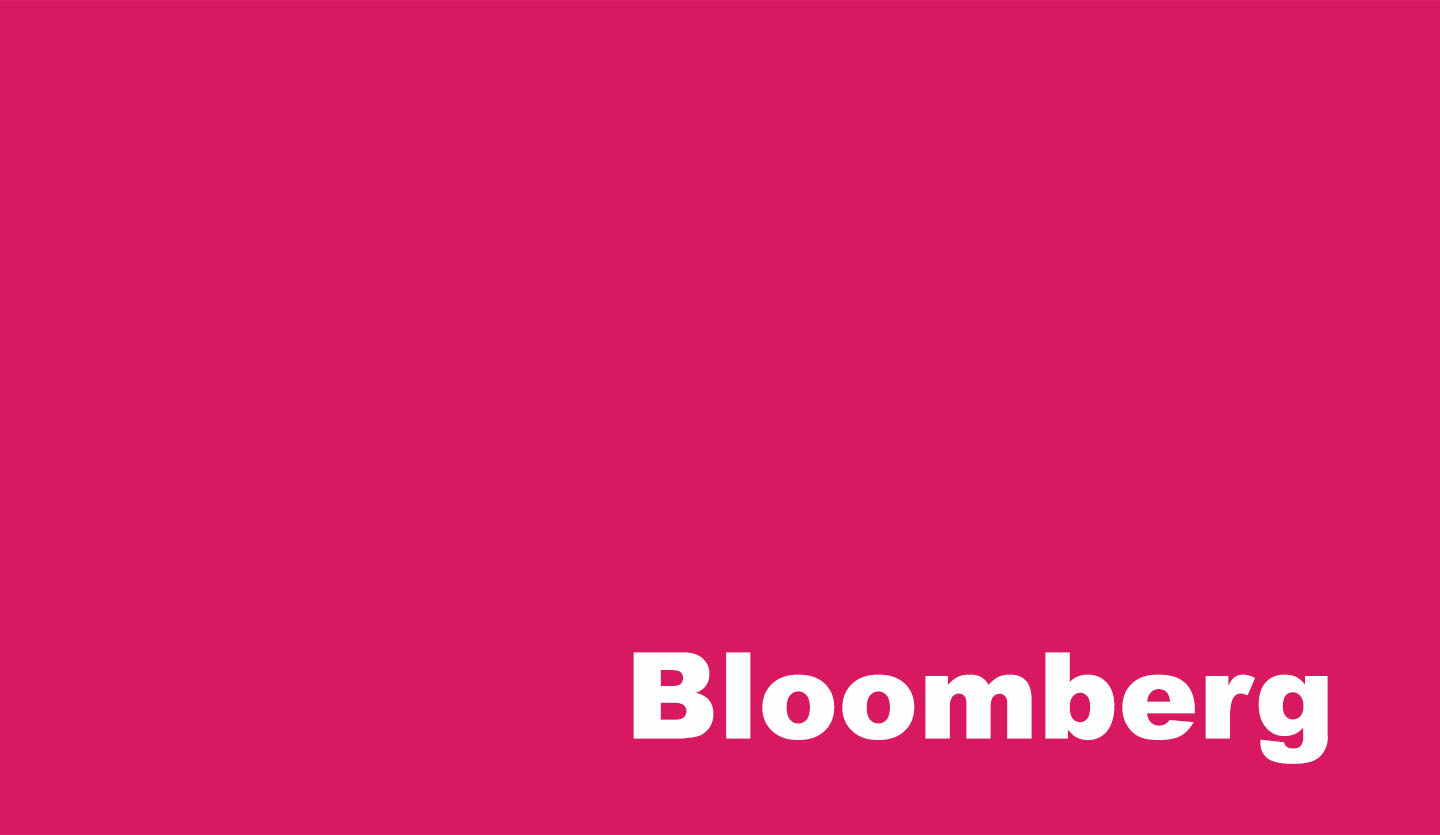
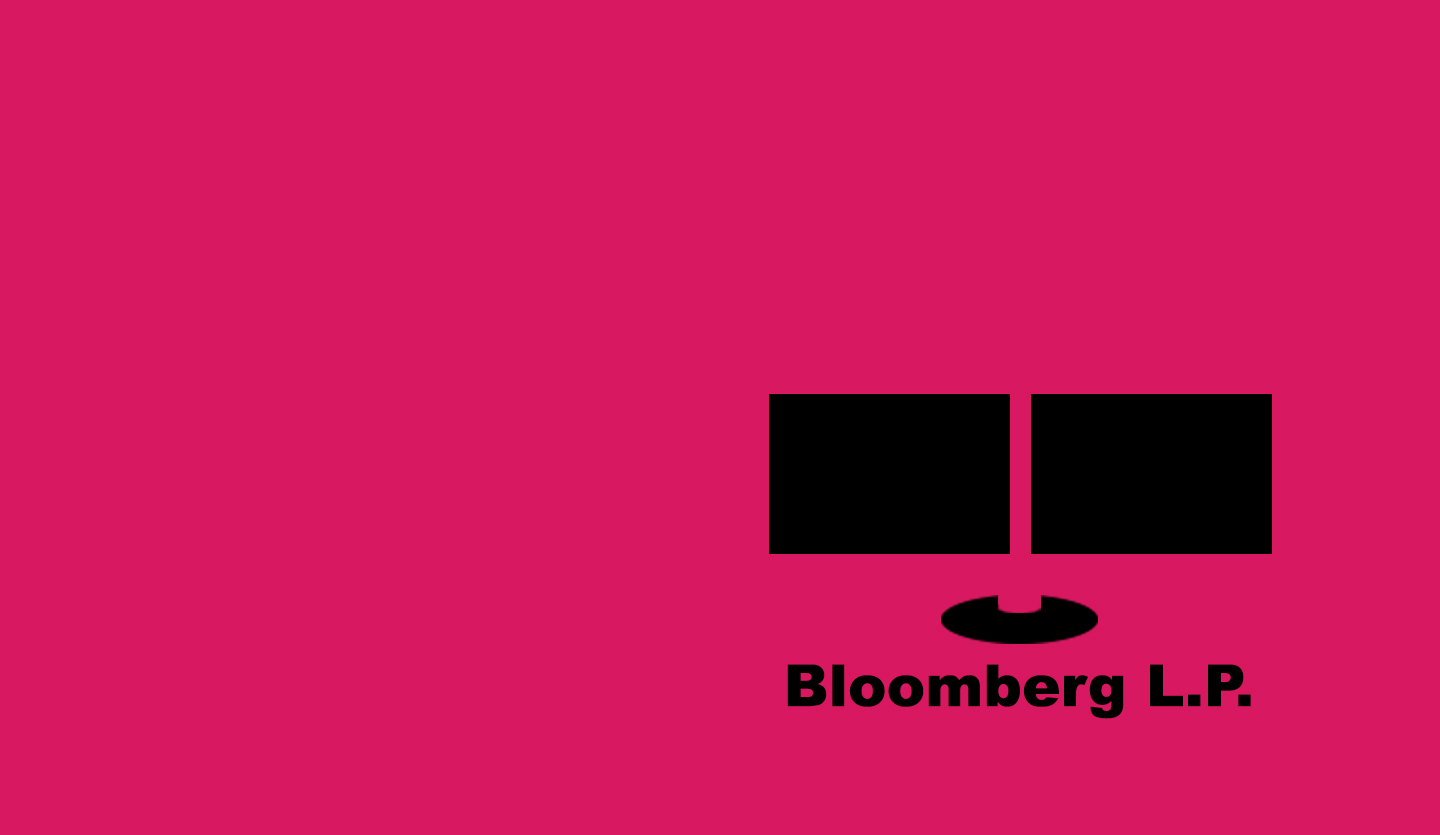
adding hero images to all project pages

Changed region(s): [[0.5312, 0.4671, 0.9062, 0.685], [0.4375, 0.7162, 0.9375, 0.9341]]

diff --git a/index.html b/index.html
@@ -55,19 +55,19 @@
                         <div class="6u">
                             <section>
                                 <a href="bloomberg.html" class="image feature nobackground proj-icon"><img class="biggerIcon" src="img/work/bloomberg2.jpg" alt="" /></a>
-                                <header>
+                                <!--<header>
                                     <p>Interaction design for Bloomberg LP.</p>
-                                </header>
+                                </header>-->
                             </section>
                         </div>
 
                         <div class="6u">
                             <section>
                                 <a href="sbaoa.html" class="image feature nobackground proj-icon"><img class="biggerIcon" src="img/work/sbaoa2.jpg" alt="" /></a>
-                                <header>
+                                <!--<header>
                                     <p>A website redesign for a refugee aid non-profit.</p>
                                 </header>
-                            </section>
+                            </section>-->
                         </div>
                         
                     </div>                    
@@ -79,18 +79,18 @@
                         <div class="4u">
                             <section>
                                 <a href="arl.html" class="image feature nobackground proj-icon"><img class="biggerIcon" src="img/work/arl.jpg" alt="" /></a>
-                                <header>
+                                <!--<header>
                                     <p>A website to request feral cat trappers and register feral cats.</p>
-                                </header>
+                                </header>-->
                             </section>
                         </div>
 
                         <div class="4u">
                             <section>
                                 <a href="eaton.html" class="image feature nobackground proj-icon"><img class="biggerIcon" src="img/work/eaton.jpg" alt="" /></a>
-                                <header>
+                                <!--<header>
                                     <p>A vision for the future of human-switchgear interaction.</p>
-                                </header>
+                                </header>-->
                             </section>
                         </div>
                                            
@@ -100,64 +100,13 @@
                         <div class="4u">
                             <section>
                                 <a href="kneejerk.html" class="image feature nobackground proj-icon"><img class="keepsmall" src="img/work/kneejerk.jpg" alt="" /></a>
-                                <header>
+                                <!--<header>
                                     <p>A reaction sharing mobile app.</p>
-                                </header>
-                            </section>
-                        </div>
-<!--
-                        <div class="4u">
-                            <section>
-                                <a href="waiterplease.html" class="image feature nobackground proj-icon"><img class="keepsmall" src="img/work/waiterPlease.jpg" alt="" /></a>
-                                <header>
-                                    <p>A system for locating wait staff.</p>
-                                </header>
-                            </section>
-                        </div>
-                        
-                        <div class="4u">
-                            <section>
-                                <a href="khri.html" class="image feature nobackground proj-icon"><img class="keepsmall" src="img/work/kresge.jpg" alt="" /></a>
-                                <header>
-                                    <p>A website redesign for the Kresge Hearing Research Institute.</p>
-                                </header>
-                            </section>
-                        </div>
--->
-                        
-                        
-                    </div>
-                    <div class="row">
-                        <!--
-                        <div class="4u">
-                            <section>
-                                <a href="nalabook.html" class="image feature nobackground proj-icon"><img class="keepsmall" src="img/work/nalaBook.jpg" alt="" /></a>
-                                <header>
-                                    <p>A book for Project nala.</p>
-                                </header>
-                            </section>
-                        </div>
-                       
-                        <div class="4u">
-                            <section>
-                                <a href="youngtraveler.html" class="image feature nobackground proj-icon"><img class="keepsmall" src="img/work/youngTraveler.jpg" alt="" /></a>
-                                <header>
-                                    <p>An e-magazine for young travelers.</p>
-                                </header>
+                                </header>-->
                             </section>
                         </div>
 
-                        
-                        <div class="4u">
-                            <section>
-                                <a href="elephant.html" class="image feature nobackground proj-icon"><img class="keepsmall" src="img/work/elephant.jpg" alt="" /></a>
-                                <header>
-                                    <p>An awesome elephant trying to uproot a tree.</p>
-                                </header>
-                            </section>
-                        </div>
-                    </div>
--->					</section>
+    				</section>
 
 
 					<section id="about" class="container">

diff --git a/arl.html b/arl.html
@@ -37,13 +37,13 @@
   </nav>
 </header>
 
+
+	<div class="hero">
+        <img src="img/work/nala-hero.jpg" alt="project nala hero image" />
+    </div>
+
 <!-- Main -->
 <article id="main">
-  <section class="wrapper style1 container">
-    <header class="container center">
-      <h2>Project Nala for the Animal Rescue League</h2>
-    </header>
-  </section>
   
   <!-- Proj Meta -->
   <section class="wrapper style1 container">
@@ -114,14 +114,18 @@
       <div class="9u"> 
 
           <section>
-            <h3>Final Concept</h3>
+            <h3>About Project Nala</h3>
             <p>Project nala is a website I designed and prototyped with 2 teammates for the Animal Rescue 
-              League of Western Pennsylvania. It allows community members to 
+              League of Western Pennsylvania. The Animal Rescue League came to us looking for a tool to educate the community 
+              about feral cats and also control the feral cat population. Project nala allows community members to 
               request expert trappers in order to Trap-Neuter-Return feral cats 
               in their neighborhoods. Trap-Neuter Return is a humane way of 
               controlling the feral cat population.
             </p>
-            <p>Check out the <a href="http://www.post-gazette.com/life/pet-stories/2014/05/17/Helping-feral-cats-and-those-who-care-for-them/stories/201405170038" target="_blank">article in the Pittsburgh Post-Gazette</a> written about our project and the <a href="http://www.hcii.cmu.edu/news/in-the-media/cmu-hcii-team-helps-feral-cats" target="_blank">coverage on CMU's HCII website</a>!</p>
+            <ul class="buttons">
+					<li class="button-li"><a href="http://projectnala.org" target="_blank" class="button special">Live website!</a></li>
+            </ul>
+            <p>Check out the <a href="http://triblive.com/neighborhoods/alleghenyneighborhoods/alleghenyneighborhoodsmore/7767408-74/cats-animal-cat#axzz3bRjFx9AF" target="_blank">article in TribLive</a> written about our project, <a href="http://www.post-gazette.com/life/pet-stories/2014/05/17/Helping-feral-cats-and-those-who-care-for-them/stories/201405170038" target="_blank">another article in the Pittsburgh Post-Gazette</a> and the <a href="http://www.hcii.cmu.edu/news/in-the-media/cmu-hcii-team-helps-feral-cats" target="_blank">coverage on CMU's HCII website</a>!</p>
             <p><div class="image feature nobackground captioned"><img src="work/arl/project_nala.jpg" alt="" /></div></p>
           </section>
 
@@ -155,15 +159,6 @@
             <br/>
           </section>
 
-  
-  <!-- About -->
-
-          <section>
-            <h3>Client</h3>
-            <p>The Animal Rescue League wanted a tool to educate the community about feral cats and also control the feral cat population.
-            </p> 
-            <p><div class="image feature nobackground captioned"><img src="work/arl/rescue_league.jpg" alt="" /></div></p>
-          </section>
 
 <br/>
   

diff --git a/eaton.html b/eaton.html
@@ -38,16 +38,12 @@
         </nav>
     </header>	
 		
+	<div class="hero">
+        <img src="img/work/eaton-hero.jpg" alt="eaton hero image" />
+    </div>
+
 		<!-- Main -->
     <article id="main">
-
-        <!-- TITLE -->
-        <section class="wrapper style1 container">
-            <header class="container center">
-                <h2>Eaton Capstone Project</h2>
-            </header>
-        </section>
-				
 				
 		<!-- Proj Meta -->
         <section class="wrapper style1 container">
@@ -129,15 +125,12 @@
                             <section>
                                 <h3>Process</h3>
                                 <h3>Research</h3>
-                                <p>We interviewed 33 domain experts.</p>
-                                <p><div class="image feature nobackground captioned"><img src="work/eaton/interview.JPG" alt="" /></div></p>
-                            </section>
-
-    
-                            <!-- tour -->
-                            <section>
-                                <p>And toured 4 university and hospital basements to see the switchgears and ask questions as we toured.</p>
-                                <p><div class="image feature nobackground captioned"><img src="work/eaton/tour.JPG" alt="" /></div></p>
+                                <p>We interviewed 33 domain experts. And toured 4 university and hospital basements to see the switchgears and ask questions as we toured.</p>
+                                <div class="row">
+                                    <div class="6u"><div class="image feature nobackground captioned"><img src="work/eaton/interview.JPG" alt="" /></div></div>
+                                    <div class="6u"><div class="image feature nobackground captioned"><img src="work/eaton/tour.JPG" alt="" /></div></div>
+                                </div>
+                                <br/>
                             </section>
             
             

diff --git a/kneejerk.html b/kneejerk.html
@@ -37,17 +37,13 @@
 					</ul>
 				</nav>
 			</header>	
+			
+			<div class="hero">
+                <img src="img/work/kneejerk-hero.jpg" alt="kneejerk hero image" />
+            </div>
 		
 		    <!-- Main -->
-			<article id="main">
-
-                <!--TITLE-->
-                <section class="wrapper style1 container">
-				    <header class="container center">
-				    	<h2>KneeJerk</h2>
-				    </header>
-				</section>
-				
+			<article id="main">				
 
 				    <!-- Proj Meta -->
 					<section class="wrapper style1 container">

diff --git a/sbaoa.html b/sbaoa.html
@@ -37,13 +37,12 @@
   </nav>
 </header>
 
+<div class="hero">
+    <img src="img/work/sbaoa-hero.jpg" alt="somali bantu association hero image" />
+</div>
+
 <!-- Main -->
 <article id="main">
-  <section class="wrapper style1 container">
-    <header class="container center">
-      <h2>Somali Bantu Association Website Redesign</h2>
-    </header>
-  </section>
   
   <!-- IX @ BBG -->
   <section class="wrapper style1 container">

diff --git a/css/style.css b/css/style.css
@@ -860,6 +860,13 @@
 			#banner .inner footer {
 				margin: 2em 0 0 0;
 			}
+			
+			
+	
+	.hero img {
+		    width:100%; 
+		border-bottom: solid 1px #eeeeee;
+    }
 
 /* Main */
 
@@ -868,7 +875,7 @@
 		background-position: top left, top right, bottom left, bottom right;
 		background-repeat: no-repeat;
 		background-size: 25em;*/
-		padding: 7em 0;
+		padding: 3em 0;
 	}
 
 		#main > :last-child {

diff --git a/bloomberg.html b/bloomberg.html
@@ -37,13 +37,12 @@
   </nav>
 </header>
 
+<div class="hero">
+    <img src="img/work/bloomberg-hero.jpg" alt="bloomberg hero image" />
+</div>
+
 <!-- Main -->
 <article id="main">
-  <section class="wrapper style1 container">
-    <header class="container center">
-      <h2>Bloomberg L.P.</h2>
-    </header>
-  </section>
   
   <!-- IX @ BBG -->
   <section class="wrapper style1 container">
